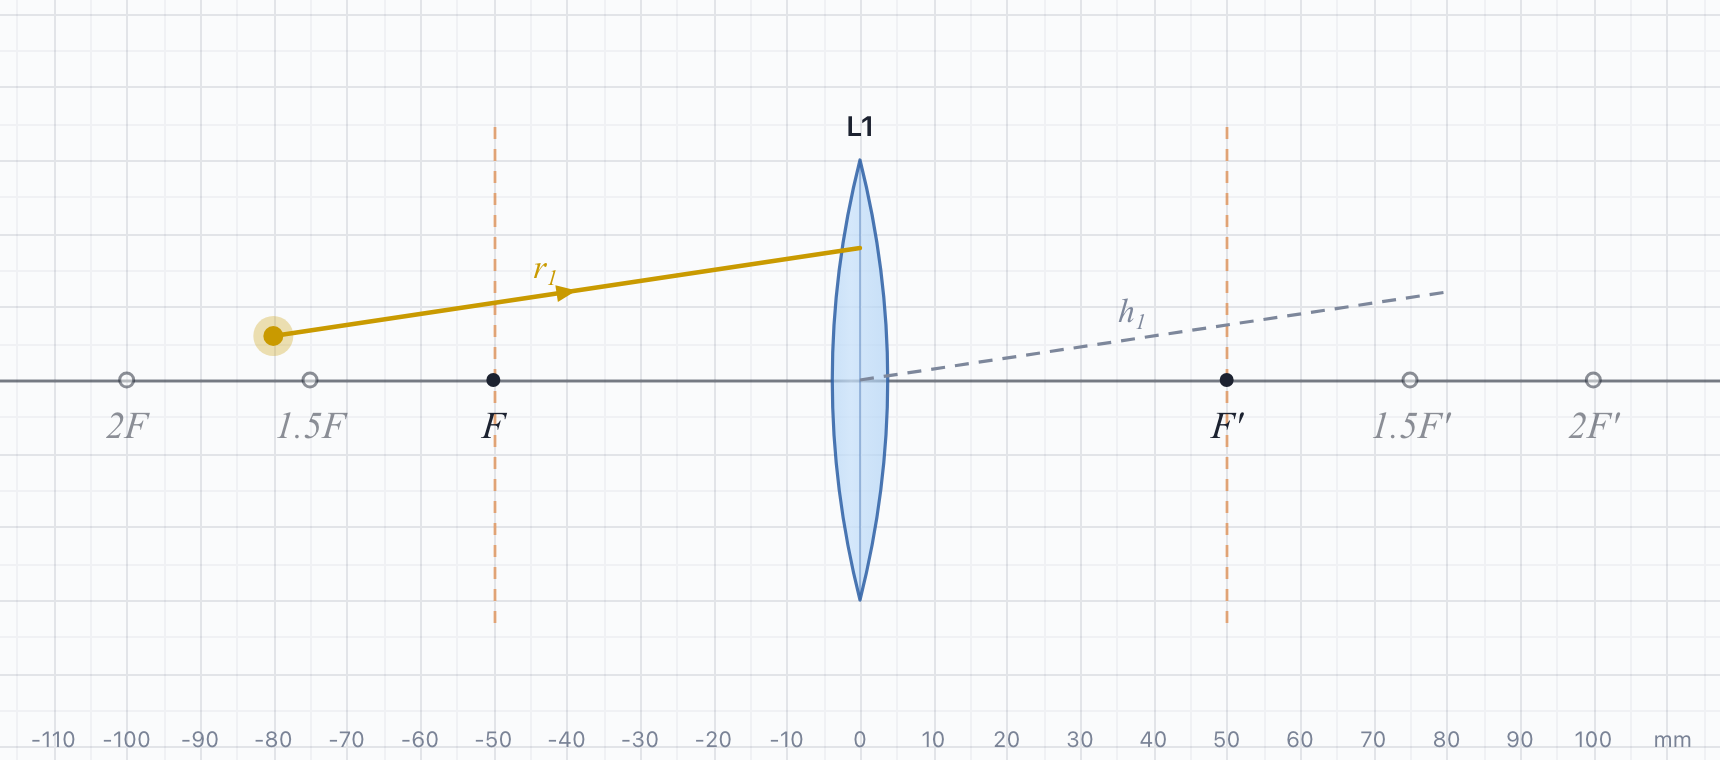
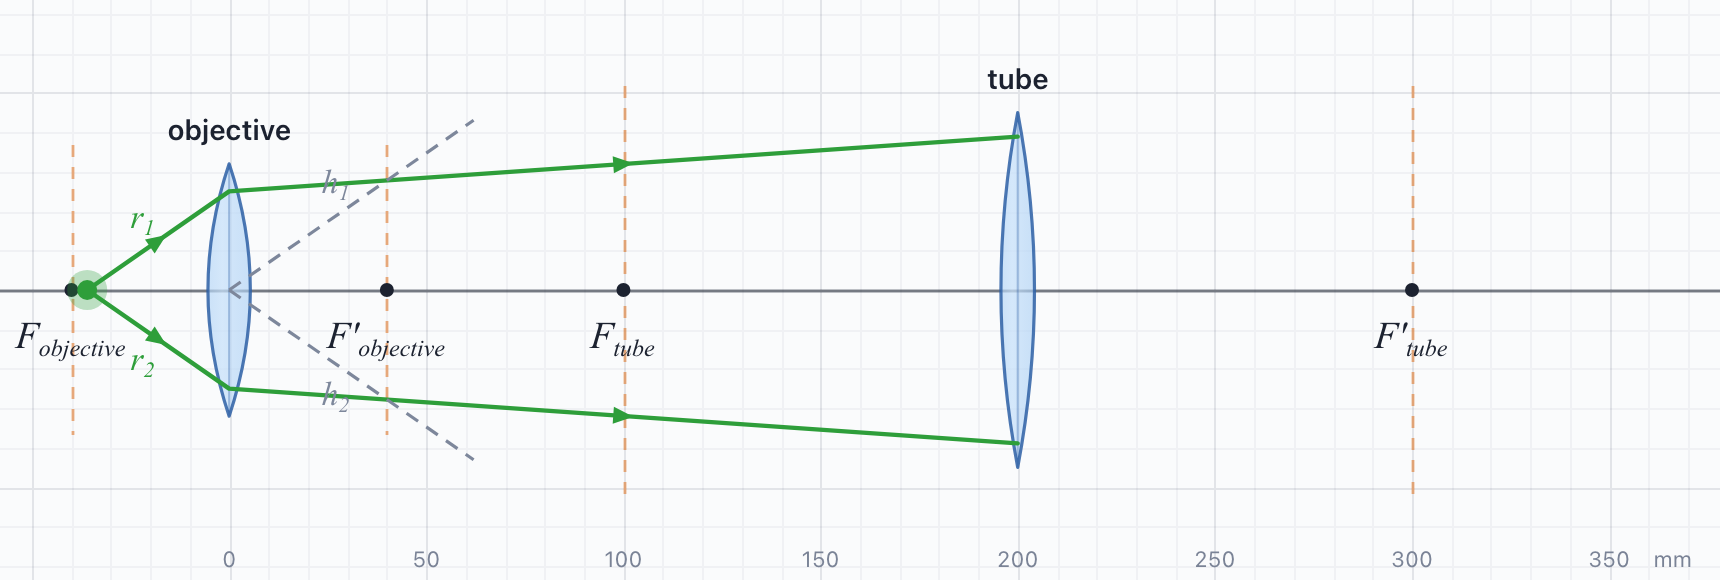
Guide: helper-ray example follows the demo (objective + tube lens, four stages)
Ray names sit on the side away from the axis, so symmetric pairs no longer overlap.

Claude-Session: https://claude.ai/code/session_018w4CbCbTmjtM1HVaCDibqK

diff --git a/Claude/guide-shots/scenes.js b/Claude/guide-shots/scenes.js
@@ -26,31 +26,45 @@
   var GREEN = '#2e9e3a', PURPLE = '#8e44ad';
 
   // ---------------------------------------------------------------- helper rays
-  function helperBase() {
-    var L = lens(0, 50, 30); L.planes = true;
-    var P = point(-80, 6);
-    var r = ray({ at: { el: P.id, pt: 'src' } }); r.label = 'r1';
-    r.nodes.push({ dir: { kind: 'free' }, end: { kind: 'lens', el: L.id, y: 18 } });
-    return { L: L, P: P, r: r };
-  }
-  function withHelper(b) {
-    var h = ray({ at: { el: b.L.id, pt: 'C' } }, true); h.label = 'h1';
-    h.nodes.push({ dir: { kind: 'parallelTo', ray: b.r.id, seg: 0 }, end: { kind: 'z', z: 80 } });
-    return h;
+  /* The helper-ray trick, as in step 1 of the confocal-from-zero demo: a source just inside F of
+     an objective, then a tube lens. stage 1: helpers at the objective; 2: the rays leave it;
+     3: helpers at the tube lens; 4: the rays meet at the image. Virtual images are hidden (the
+     objective's is far off to the left) and the view is set to the system. */
+  function helperTrick(stage) {
+    real.settings.virtual = false;
+    var obj = lens(0, 40, 32, 'objective'), tube = lens(200, 100, 45, 'tube');
+    obj.planes = true; tube.planes = true;
+    var P = point(-36, 0, GREEN);
+    var rs = [25, -25].map(function (h, i) {
+      var r = ray({ at: { el: P.id, pt: 'src' } }); r.label = 'r' + (i + 1);
+      r.nodes.push({ dir: { kind: 'free' }, end: { kind: 'lens', el: obj.id, y: h } });
+      return r;
+    });
+    var hs = rs.map(function (r, i) {
+      var h = ray({ at: { el: obj.id, pt: 'C' } }, true); h.label = 'h' + (i + 1);
+      h.nodes.push({ dir: { kind: 'parallelTo', ray: r.id, seg: 0 }, end: { kind: 'z', z: 62 } });
+      return h;
+    });
+    if (stage < 2) return;
+    rs.forEach(function (r, i) {
+      r.nodes.push({ dir: { kind: 'through', at: { ray: hs[i].id, seg: 0, plane: { el: obj.id, pt: 'Fp' } } }, end: { kind: 'lens', el: tube.id } });
+    });
+    if (stage < 3) return;
+    var ht = rs.map(function (r, i) {
+      var h = ray({ at: { el: tube.id, pt: 'C' } }, true); h.label = 'h' + (i + 3);
+      h.nodes.push({ dir: { kind: 'parallelTo', ray: r.id, seg: 1 }, end: { kind: 'z', z: 330 } });
+      return h;
+    });
+    if (stage < 4) return;
+    rs.forEach(function (r, i) {
+      r.nodes.push({ dir: { kind: 'through', at: { ray: ht[i].id, seg: 0, plane: { el: tube.id, pt: 'Fp' } } }, end: { kind: 'z', z: 365 } });
+    });
   }
   var G = {
-    helper1: function () { helperBase(); },
-    helper2: function () { var b = helperBase(); withHelper(b); },
-    helper3: function () {
-      var b = helperBase(), h = withHelper(b);
-      b.r.nodes.push({ dir: { kind: 'through', at: { ray: h.id, seg: 0, plane: { el: b.L.id, pt: 'Fp' } } }, end: { kind: 'z', z: 170 } });
-    },
-    helper4: function () {
-      var b = helperBase(), h = withHelper(b);
-      b.r.nodes.push({ dir: { kind: 'through', at: { ray: h.id, seg: 0, plane: { el: b.L.id, pt: 'Fp' } } }, end: { kind: 'z', z: 170 } });
-      var c = ray({ at: { el: b.P.id, pt: 'src' } }); c.label = 'r2';
-      draw(c, { z: 0, y: 0 }); draw(c, { z: 170, y: -12.8 });
-    },
+    helperA: function () { helperTrick(1); },
+    helperB: function () { helperTrick(2); },
+    helperC: function () { helperTrick(3); },
+    helperD: function () { helperTrick(4); },
     // ---------------------------------------------------------------- light from infinity
     bundle: function () {
       var L = lens(0, 50, 30); L.planes = true;

diff --git a/guide/index.html b/guide/index.html
@@ -94,12 +94,20 @@
   of the Ray tool, or press <kbd>H</kbd> (<kbd>R</kbd> goes back to ordinary rays).</p>
 <p>To trace any ray through a lens: draw a helper from the lens centre,
   <span class="snap">parallel to that ray</span>. The ray leaves the lens through the point where
-  the helper crosses the back focal plane.</p>
+  the helper crosses the back focal plane (snap <span class="snap">through that ray at the back
+  focal plane</span>). Repeat at each lens. Turn on <b>Show focal planes</b> in the lenses' panels.</p>
+<p>Example: a source just inside F of an objective, then a tube lens.</p>
 <div class="pair">
-  <figure><a href="img/helper-2.png" target="_blank" rel="noopener" title="Open full size"><img src="img/helper-2.png" alt="A ray reaching a lens, and a dashed helper ray from the lens centre parallel to it" loading="lazy"></a>
-    <figcaption>Helper h₁ from the centre, parallel to r₁.</figcaption></figure>
-  <figure><a href="img/helper-4.png" target="_blank" rel="noopener" title="Open full size"><img src="img/helper-4.png" alt="The ray leaving through the helper's crossing of the back focal plane, meeting a central ray at the image" loading="lazy"></a>
-    <figcaption>r₁ leaves through h₁'s crossing of the back focal plane, and meets r₂ at the image.</figcaption></figure>
+  <figure><a href="img/helper-1.png" target="_blank" rel="noopener" title="Open full size"><img src="img/helper-1.png" alt="Two rays reach the objective; dashed helpers from its centre, parallel to them" loading="lazy"></a>
+    <figcaption>Helpers h₁, h₂ from the objective's centre, parallel to r₁, r₂.</figcaption></figure>
+  <figure><a href="img/helper-2.png" target="_blank" rel="noopener" title="Open full size"><img src="img/helper-2.png" alt="The rays leave the objective through the helpers' crossings of its back focal plane" loading="lazy"></a>
+    <figcaption>r₁, r₂ leave through those crossings of the back focal plane.</figcaption></figure>
+</div>
+<div class="pair">
+  <figure><a href="img/helper-3.png" target="_blank" rel="noopener" title="Open full size"><img src="img/helper-3.png" alt="Dashed helpers from the tube lens centre, parallel to the rays arriving there" loading="lazy"></a>
+    <figcaption>At the tube lens: h₃, h₄ parallel to r₁, r₂ as they arrive.</figcaption></figure>
+  <figure><a href="img/helper-4.png" target="_blank" rel="noopener" title="Open full size"><img src="img/helper-4.png" alt="The rays leave the tube lens through those crossings and meet at the image" loading="lazy"></a>
+    <figcaption>Through those crossings: the rays meet at the image.</figcaption></figure>
 </div>
 <p>Select a ray and press <kbd>N</kbd> to name it (<i>r1</i> is drawn as r₁).</p>
 

diff --git a/js/render.js b/js/render.js
@@ -274,14 +274,15 @@
   }
 
   /** A label written by a ray (r1, h2): digits at the end become a subscript. It sits beside
-      the middle of the ray's first segment, on its upper side. */
-  function rayLabel(c, sp, label, col) {
+      the middle of the ray's first segment, on the side away from the axis (screen y axisY). */
+  function rayLabel(c, sp, label, col, axisY) {
     if (!label || sp.length < 2) return;
     var a = sp[0], b = sp[1], L = Math.hypot(b.x - a.x, b.y - a.y);
     if (L < 1) return;
     var mx = a.x + (b.x - a.x) * Math.min(0.5, 140 / L), my = a.y + (b.y - a.y) * Math.min(0.5, 140 / L);
     var nx = (b.y - a.y) / L, ny = -(b.x - a.x) / L;
-    if (ny > 0) { nx = -nx; ny = -ny; }                      // the upper side
+    var below = axisY != null && my > axisY + 1;               // a ray below the axis: label below it
+    if ((ny > 0) !== below) { nx = -nx; ny = -ny; }
     var m = /^(.*?)(\d+)$/.exec(label), parts = m && m[1] ? [{ t: m[1] }, { t: m[2], sub: true }] : [{ t: label }];
     richText(c, parts, mx + nx * 13, my + ny * 13, col, SERIF.replace('19px', '17px'));
   }
@@ -510,7 +511,7 @@
         c.save(); c.globalAlpha = 0.5; rayPath(c, sp.slice(-2), col, w, W, dash); c.restore();
       } else rayPath(c, sp, col, w, W, dash);
       if (s.rim) cross(c, sp[sp.length - 1], th.red);   // missed a lens or mirror: stopped at its rim
-      if (r.label) rayLabel(c, sp, r.label, col);
+      if (r.label) rayLabel(c, sp, r.label, col, v.Y(0));
       if (showNodes || sel) {
         sp.forEach(function (p, i) {
           if (RM.rays.isJoint(st.scene, r, s, i)) return;       // straight through a centre: not a node

diff --git a/Claude/guide-shots/shots.py b/Claude/guide-shots/shots.py
@@ -12,7 +12,8 @@ W, H = 860, 380
 
 # name in scenes.js, file name, extra: ui (keep toolbars), after (JS to run after building), crop
 SHOTS = [
-    ("helper2", "helper-2"), ("helper4", "helper-4"),
+    ("helperA", "helper-1", {"h": 290, "after": "RM.app.view.fit({z0: -50, z1: 370, y0: -40, y1: 40}, 860, 290, 16); RM.app.redraw()"}), ("helperB", "helper-2", {"h": 290, "after": "RM.app.view.fit({z0: -50, z1: 370, y0: -40, y1: 40}, 860, 290, 16); RM.app.redraw()"}),
+    ("helperC", "helper-3", {"h": 290, "after": "RM.app.view.fit({z0: -50, z1: 370, y0: -40, y1: 40}, 860, 290, 16); RM.app.redraw()"}), ("helperD", "helper-4", {"h": 290, "after": "RM.app.view.fit({z0: -50, z1: 370, y0: -40, y1: 40}, 860, 290, 16); RM.app.redraw()"}),
     ("bundle", "bundle"),
     ("iris", "iris-open"), ("irisClosed", "iris-closed"),
     ("objects", "explorer", {"ui": True, "w": 1100, "h": 520, "after": "document.querySelector('[data-act=objects]').click()"}),

diff --git a/Claude/LOG.md b/Claude/LOG.md
@@ -1275,3 +1275,17 @@ now also shows 1.5F). Objects already snapped to these multiples. The guide's pi
 single-lens scenes, were regenerated to match.
 
 Checked in headless Chrome: one lens shows the six marks; adding a second lens removes them.
+
+## 2026-11-14 — The guide's helper-ray example follows the demo *(lecturer)*
+
+The guide's helper-ray example now follows step 1 of the *confocal-from-zero* demo: a source just
+inside F of an objective, then a tube lens, traced in four pictures (helpers at the objective; the
+rays leave it through the crossings of its back focal plane; helpers at the tube lens; the rays
+meet at the image). Built in RayMan with the same snaps a student uses. The demo stretches its
+picture vertically; RayMan cannot, so the system is more compact than the demo's (objective f 40
+with the source 4 inside F, tube lens f 100, 200 apart), virtual images are hidden in these shots
+(the objective's virtual image is far to the left and pulled the view out), and the view is set to
+the system.
+
+Ray names now sit on the side of the ray away from the axis: below a ray that runs below it.
+Before, both labels of a symmetric pair (h₃, h₄) landed between the rays and overlapped.
